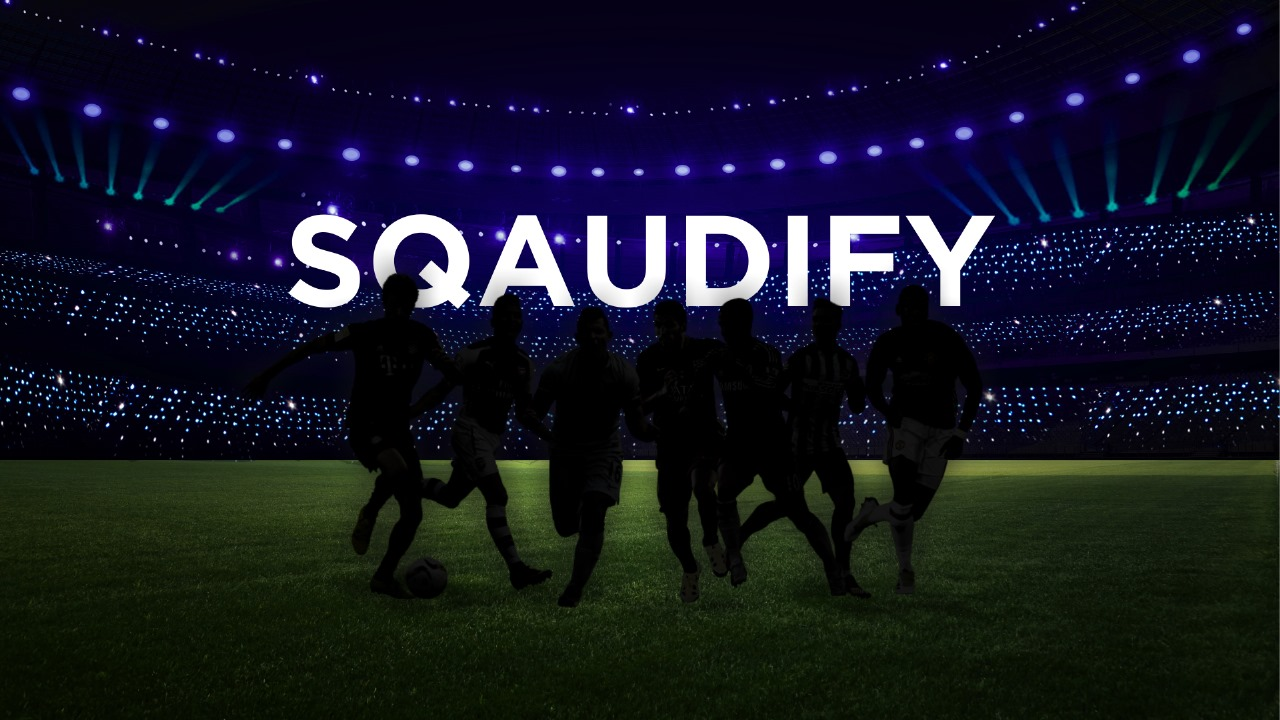
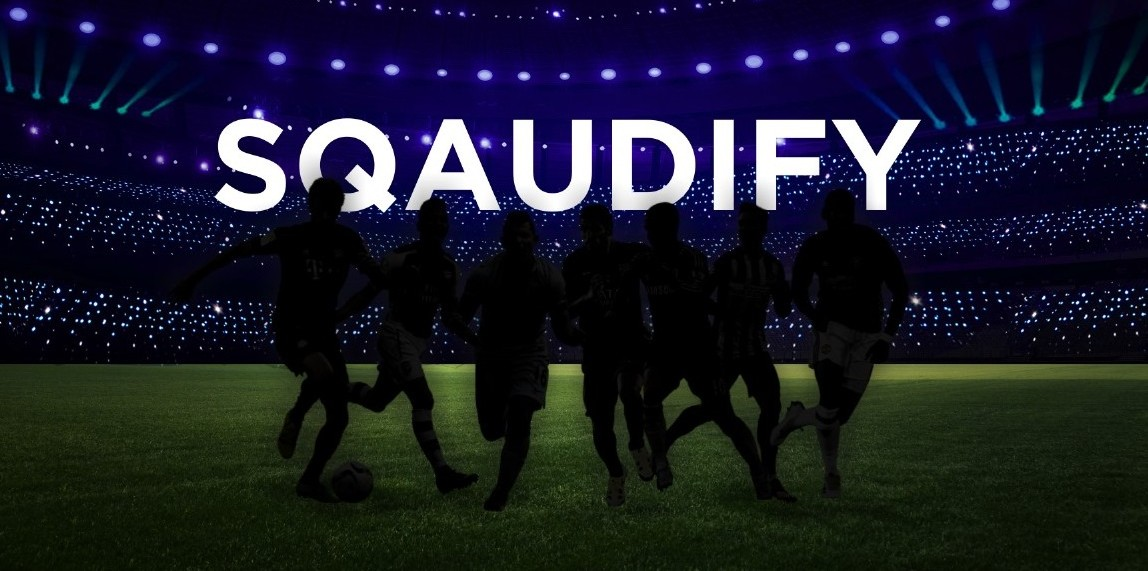
LandingPage prototype3

diff --git a/src/components/LandingPage.jsx b/src/components/LandingPage.jsx
@@ -1,6 +1,6 @@
 import React, { useState } from 'react';
 import { ChevronRight, Database, TrendingUp, Shield, Users } from 'lucide-react';
-import heroImage from "../assets/hero.png";
+import heroImage from '../assets/hero-main.jpeg';
 
 const LandingPage = () => {
   const [activeFeature, setActiveFeature] = useState(0);
@@ -26,39 +26,13 @@ const LandingPage = () => {
   return (
     <div className="min-h-screen bg-gray-50 overflow-x-hidden">
       {/* Hero Section */}
-      <div className="relative bg-gradient-to-br from-blue-800 to-purple-700 text-white min-h-screen">
-        <div className="max-w-7xl mx-auto px-4 sm:px-6 lg:px-8 pt-16 pb-24 lg:grid lg:grid-cols-2 lg:gap-16">
-          <div className="mt-10 lg:mt-0">
-          <h1 className="text-4xl font-extrabold tracking-wide sm:text-9xl" style={{ fontFamily: '"Barrio", serif' }}>
-            Squadify
-          </h1>
-          <h3 className='text-2xl mt-5 font-semibold text-gray-300' style={{fontFamily:'"Barrio",serif'}}>An AI-Driven Football Squad Optimization</h3>
-            <p className="mt-10 text-xl text-blue-100">
-              Transform squad building with data-driven insights. Maximize team performance within a €150M budget using cutting-edge machine learning.
-            </p>
-            <div className="mt-10 sm:flex sm:space-x-4">
-              <a 
-                href="#" 
-                className="flex items-center justify-center px-6 py-3 border border-transparent text-base font-medium rounded-md text-white bg-blue-500 hover:bg-blue-600 md:py-4 md:text-lg md:px-10"
-              >
-                Get Started <ChevronRight className="ml-2 h-5 w-5" />
-              </a>
-              <a 
-                href="#features" 
-                className="mt-3 sm:mt-0 flex items-center justify-center px-6 py-3 border border-transparent text-base font-medium rounded-md text-blue-100 bg-blue-600 bg-opacity-25 hover:bg-opacity-40 md:py-4 md:text-lg md:px-10"
-              >
-                Learn More
-              </a>
-            </div>
-          </div>
-          <div className="hidden lg:block relative">
-            <img 
-              src={heroImage}
-              alt="Football Squad Visualization" 
-              className="w-full max-w-xs md:max-w-md lg:max-w-lg xl:max-w-xl rounded-full shadow-black-lg mx-auto"
-              style={{ maxWidth: '100%' }} // Ensure image does not overflow
-            />
-          </div>
+      <div className="relative min-h-screen">
+        <div className="h-screen">
+          <img
+            src={heroImage}
+            alt="Football Squad"
+            className="w-full h-full object-cover"
+          />
         </div>
       </div>
 
@@ -77,22 +51,23 @@ const LandingPage = () => {
             </p>
           </div>
 
-          <div className="mt-16 lg:grid lg:grid-cols-3 lg:gap-8">
+          <div className="mt-16 grid grid-cols-1 lg:grid-cols-3 gap-8">
             {features.map((feature, index) => (
               <div 
                 key={feature.title} 
-                className={`flex flex-col p-6 rounded-lg transition-all duration-300 ${
+                className={`flex flex-col p-6 rounded-lg transition-all duration-300 transform ${
                   activeFeature === index 
                     ? 'bg-gray-300 shadow-lg scale-105' 
                     : 'hover:bg-gray-100'
                 }`}
                 onMouseEnter={() => setActiveFeature(index)}
+                style={{ transformOrigin: 'center' }}
               >
-                <div className="flex-shrink-0">
+                <div>
                   {feature.icon}
                 </div>
                 <div className="mt-2">
-                  <h3 className={`text-lg font-semibold text-gray-300 ${activeFeature === index ? 'text-black' : 'hover:text-black'}`}>
+                  <h3 className={`text-lg font-semibold ${activeFeature === index ? 'text-gray-800' : 'text-gray-300 hover:text-gray-800'}`}>
                     {feature.title}
                   </h3>
                   <p className="mt-2 text-base text-gray-500">
@@ -105,6 +80,7 @@ const LandingPage = () => {
         </div>
       </div>
 
+      {/* Rest of the sections remain the same but with proper container constraints */}
       {/* Key Technologies Section */}
       <div className="bg-gray-100 py-16">
         <div className="max-w-7xl mx-auto px-4 sm:px-6 lg:px-8">
@@ -168,7 +144,7 @@ const LandingPage = () => {
       </div>
 
       {/* Footer */}
-      <footer className="bg-gray-800 text-white py-12">
+      <footer className="bg-gray-800 text-white py-4">
         <div className="max-w-7xl mx-auto px-4 sm:px-6 lg:px-8">
           <div className="text-center">
             <p>Copyright &copy; 2025 All rights reserved.</p>

diff --git a/src/index.css b/src/index.css
@@ -4,6 +4,7 @@
 
 /* Reset and full-screen configuration */
 html, body, #root {
+  box-sizing: border-box;
   margin: 0;
   padding: 0;
   height: 100%;
@@ -27,7 +28,6 @@ html, body, #root {
 /* Remove default flex and centering from body */
 body {
   margin: 0;
-  min-width: 320px;
 }
 
 /* Tailwind will handle most of your base styling now */
